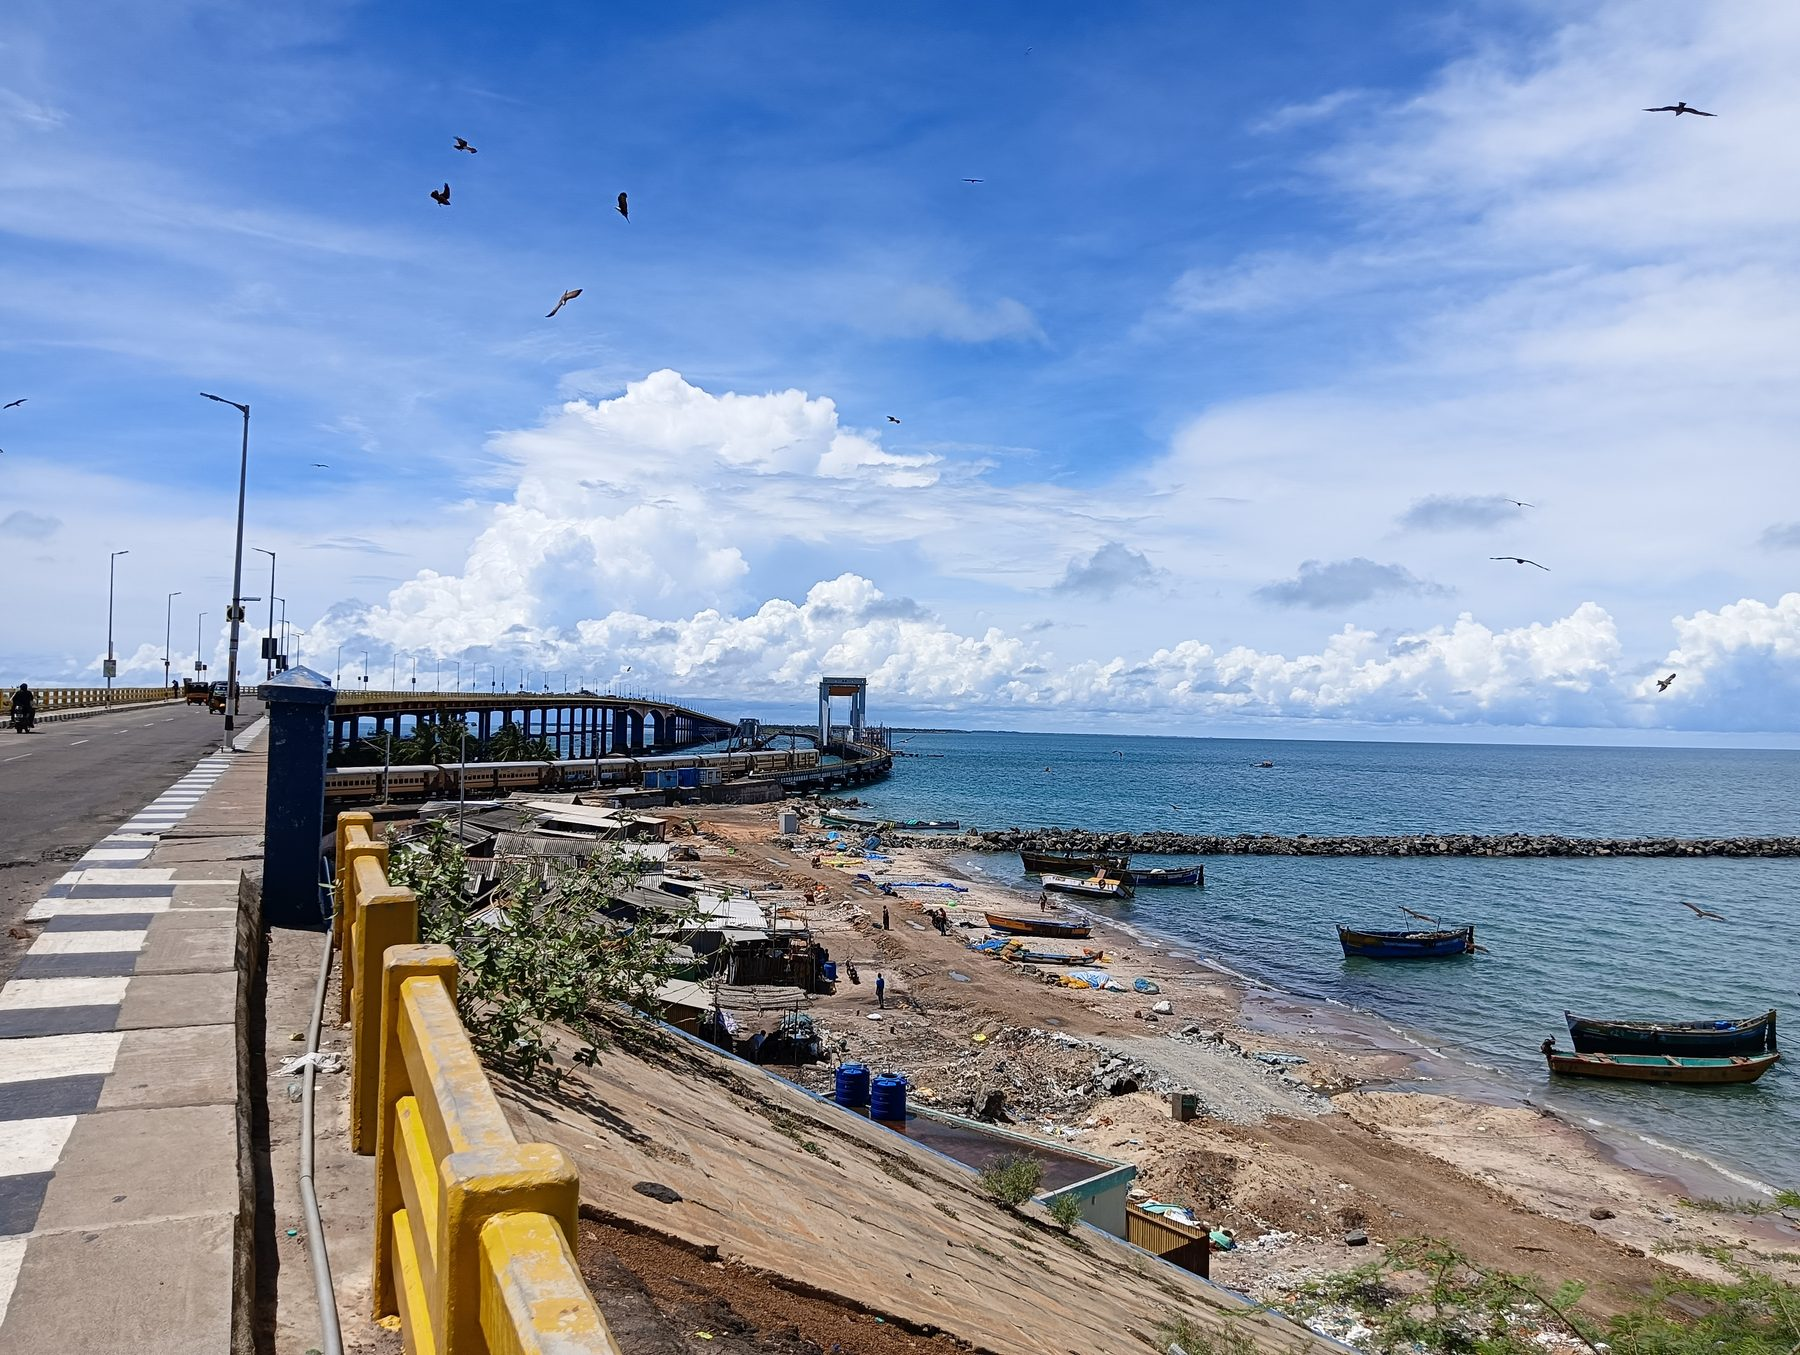
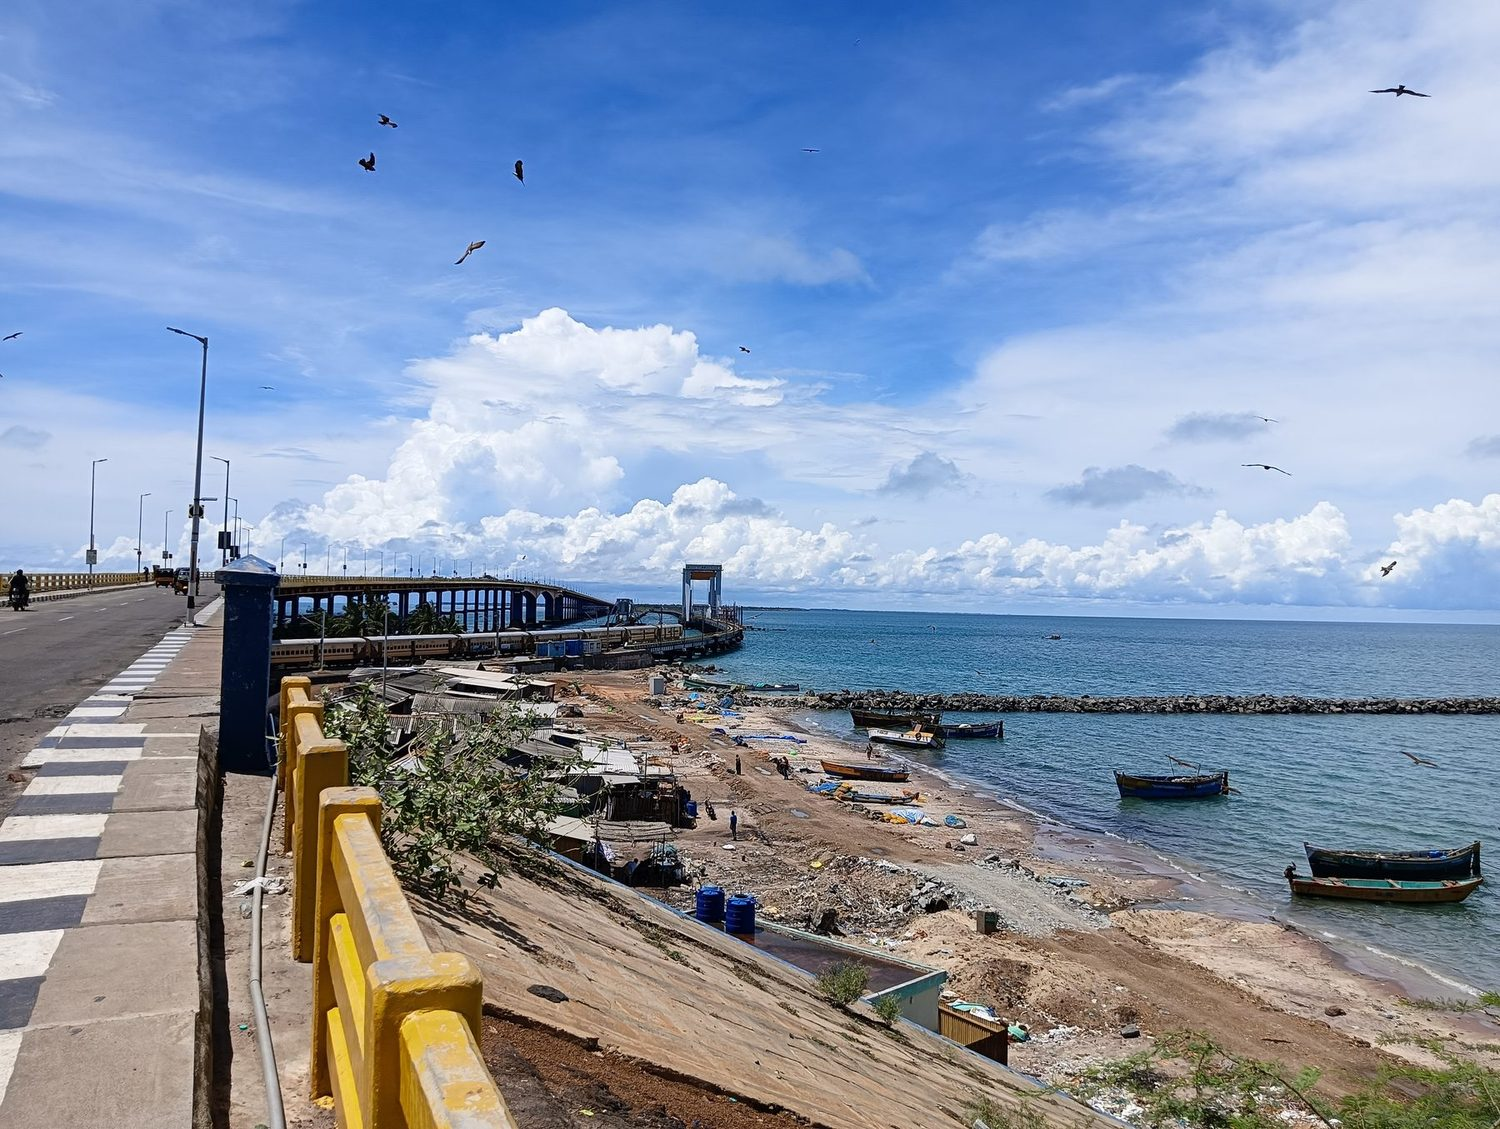
Show more of each interlude photo; third band swap
The bands were throwing most of each picture away. The photographs are
4:3 and the band was 2.26:1, so background-size:cover discarded 41% of
every frame before the parallax zoom — which then took it to about half.
Three changes recover it:

  · the band is 16:9 rather than 2.26:1, keeping ~75% of the picture
  · the parallax zoom drops from 1.18 to 1.05
  · overscan drops from 14% to 7%, just enough to cover the travel

Sources re-encoded at 2600px (from 2000-2200), so the bands are sharp on
a 1440 display at 2x rather than upscaled.

The scrim was olive — rgba(30,50,25) — which cast a visible green tint
across the night frames. It is neutral now, and weighted to the bottom
where the quote actually needs it instead of over the whole picture.

Third pair swapped: the red storm seam takes the last band, the harbour
moves into the camera roll.

Higher resolution cost 1.7 MB, so quality drops 86 -> 82 (indistinguishable
on photographs) and lens-bridge is trimmed to 1500px: 5.60 -> 5.18 MB.

Changed region(s): [[0.276, 0.651, 0.368, 0.744], [0.5213, 0.775, 0.6133, 0.837], [0.46, 0.62, 0.4907, 0.651]]

diff --git a/index.html b/index.html
@@ -115,7 +115,7 @@
   <!-- ============ INTERLUDE 1 ============ -->
   <section class="interlude" aria-hidden="true">
     <div class="interlude-frame">
-      <div class="interlude-img" style="background-image:url('assets/web/interlude-1.jpg?v=07430c62');"></div>
+      <div class="interlude-img" style="background-image:url('assets/web/interlude-1.jpg?v=a46fba3e');"></div>
     </div>
     <p class="interlude-quote" data-fade>“Always believe in yourself. Do this and no matter where you are, you will have nothing to fear.”</p>
   </section>
@@ -205,8 +205,8 @@
     <div class="filmstrip" id="filmstrip">
       <div class="filmstrip-track" id="filmTrack">
 
-        <figure class="film-frame" data-src="assets/photos/lens-bridge.jpg?v=7e06dff9">
-          <div class="film-img"><img src="assets/photos/lens-bridge.jpg?v=7e06dff9" alt="A sea bridge and rail line curving out over turquoise water" loading="lazy"></div>
+        <figure class="film-frame" data-src="assets/photos/lens-bridge.jpg?v=570f60eb">
+          <div class="film-img"><img src="assets/photos/lens-bridge.jpg?v=570f60eb" alt="A sea bridge and rail line curving out over turquoise water" loading="lazy"></div>
           <figcaption><span class="film-no">01</span> Where the rail meets the sea</figcaption>
         </figure>
 
@@ -265,9 +265,9 @@
           <figcaption><span class="film-no">12</span> Above the canopy</figcaption>
         </figure>
 
-        <figure class="film-frame" data-src="assets/web/sky-08.jpg?v=6d2ece3b">
-          <div class="film-img"><img src="assets/web/sky-08.jpg?v=6d2ece3b" alt="A dark storm wall lit by a thin seam of red" loading="lazy"></div>
-          <figcaption><span class="film-no">13</span> The seam in the storm</figcaption>
+        <figure class="film-frame" data-src="assets/web/sky-08.jpg?v=b9600bac">
+          <div class="film-img"><img src="assets/web/sky-08.jpg?v=b9600bac" alt="A harbour at dusk with fishing boats moored across still water" loading="lazy"></div>
+          <figcaption><span class="film-no">13</span> The fleet, at anchor</figcaption>
         </figure>
 
         <figure class="film-frame" data-src="assets/web/sky-09.jpg?v=9c94a93e">
@@ -282,7 +282,7 @@
   <!-- ============ INTERLUDE 2 ============ -->
   <section class="interlude" aria-hidden="true">
     <div class="interlude-frame">
-      <div class="interlude-img" style="background-image:url('assets/web/interlude-2.jpg?v=0efb73b9');"></div>
+      <div class="interlude-img" style="background-image:url('assets/web/interlude-2.jpg?v=11b9923f');"></div>
     </div>
     <p class="interlude-quote" data-fade>“Nothing that happens is ever forgotten, even if you can’t remember it.”</p>
   </section>
@@ -410,7 +410,7 @@
   <!-- ============ INTERLUDE 3 ============ -->
   <section class="interlude" aria-hidden="true">
     <div class="interlude-frame">
-      <div class="interlude-img" style="background-image:url('assets/web/interlude-3.jpg?v=219e78b7');"></div>
+      <div class="interlude-img" style="background-image:url('assets/web/interlude-3.jpg?v=2185e47e');"></div>
     </div>
     <p class="interlude-quote" data-fade>“The wind is rising — we must try to live.”</p>
   </section>

diff --git a/css/style.css b/css/style.css
@@ -575,7 +575,12 @@ html[data-theme="dusk"] .theme-toggle .tt-night { opacity: 1; }
 }
 .interlude-frame {
   position: relative;
-  height: clamp(300px, 58vh, 620px);
+  /* The photographs are 4:3. In the old 2.26:1 band, background-size:cover
+     threw away 41% of every frame before the parallax zoom even started.
+     16:9 keeps roughly three quarters of the picture. */
+  aspect-ratio: 16 / 9;
+  min-height: 260px;
+  max-height: 82vh;
   border-radius: var(--radius-xl);
   overflow: hidden;
   box-shadow: var(--shadow-l);
@@ -583,7 +588,9 @@ html[data-theme="dusk"] .theme-toggle .tt-night { opacity: 1; }
 }
 .interlude-img {
   position: absolute;
-  inset: -14% 0;
+  /* just enough overscan to cover the parallax travel — the old -14% was
+     cropping the picture further for no visible benefit */
+  inset: -7% 0;
   background-size: cover;
   background-position: center;
   will-change: transform;
@@ -592,9 +599,9 @@ html[data-theme="dusk"] .theme-toggle .tt-night { opacity: 1; }
   content: "";
   position: absolute;
   inset: 0;
-  /* the bands are all dusk/night photographs now, so this only needs to be
-     heavy enough to seat the quote — any more and the picture goes muddy */
-  background: linear-gradient(180deg, rgba(30, 50, 25, 0.06), rgba(18, 30, 14, 0.34));
+  /* Neutral, not green: the old olive scrim cast a visible tint over the
+     night frames. Weighted to the bottom only, where the quote sits. */
+  background: linear-gradient(180deg, rgba(0, 0, 0, 0) 45%, rgba(6, 10, 16, 0.52));
 }
 .interlude-quote {
   position: absolute;

diff --git a/js/script.js b/js/script.js
@@ -133,12 +133,14 @@
         }
       );
 
+      // gentle: a 1.18 zoom was cropping another chunk out of an already
+      // tight crop. Barely any scale, just enough drift to feel alive.
       gsap.fromTo(
         img,
-        { yPercent: -10, scale: 1.18 },
+        { yPercent: -4.5, scale: 1.05 },
         {
-          yPercent: 10,
-          scale: 1.02,
+          yPercent: 4.5,
+          scale: 1.0,
           ease: "none",
           scrollTrigger: { trigger: band, start: "top bottom", end: "bottom top", scrub: 0.8 },
         }
